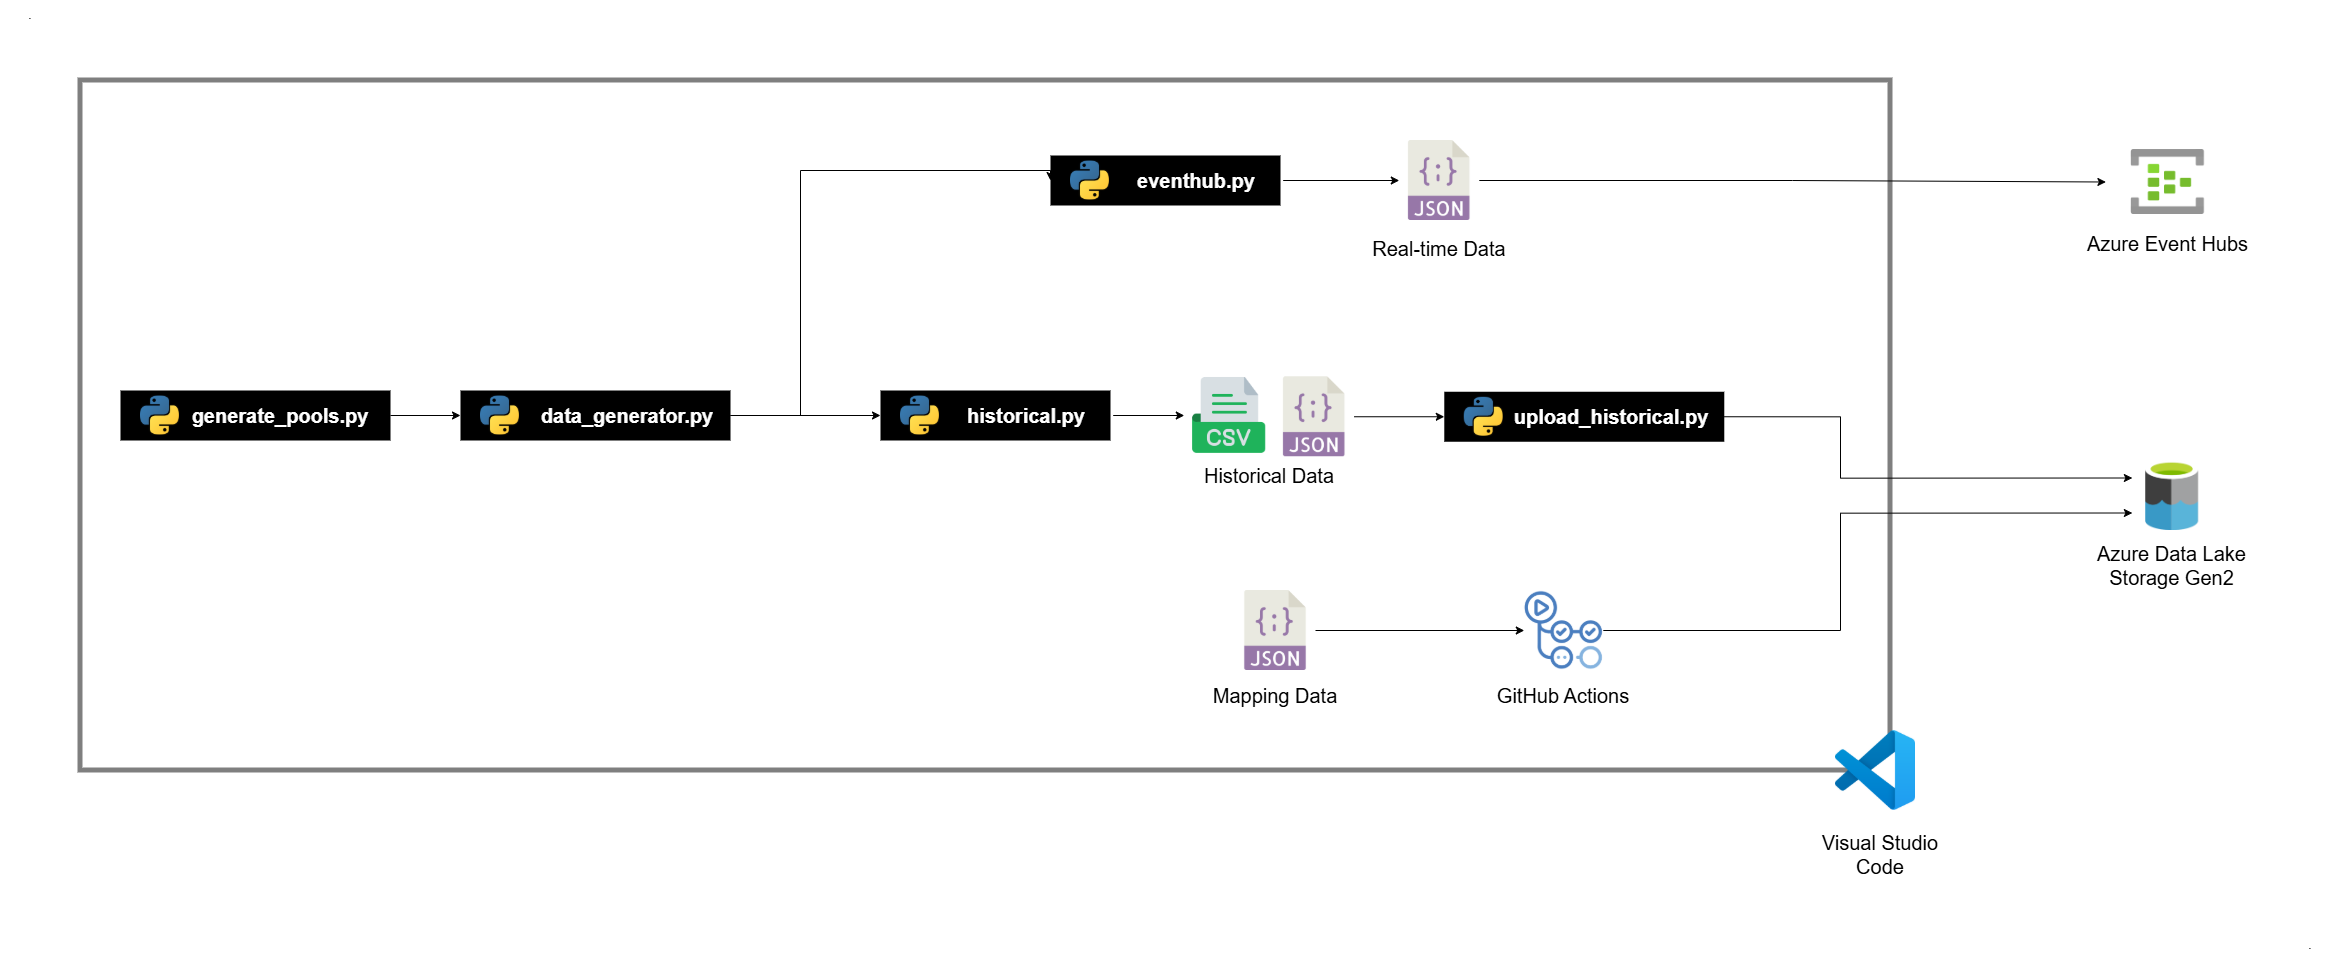
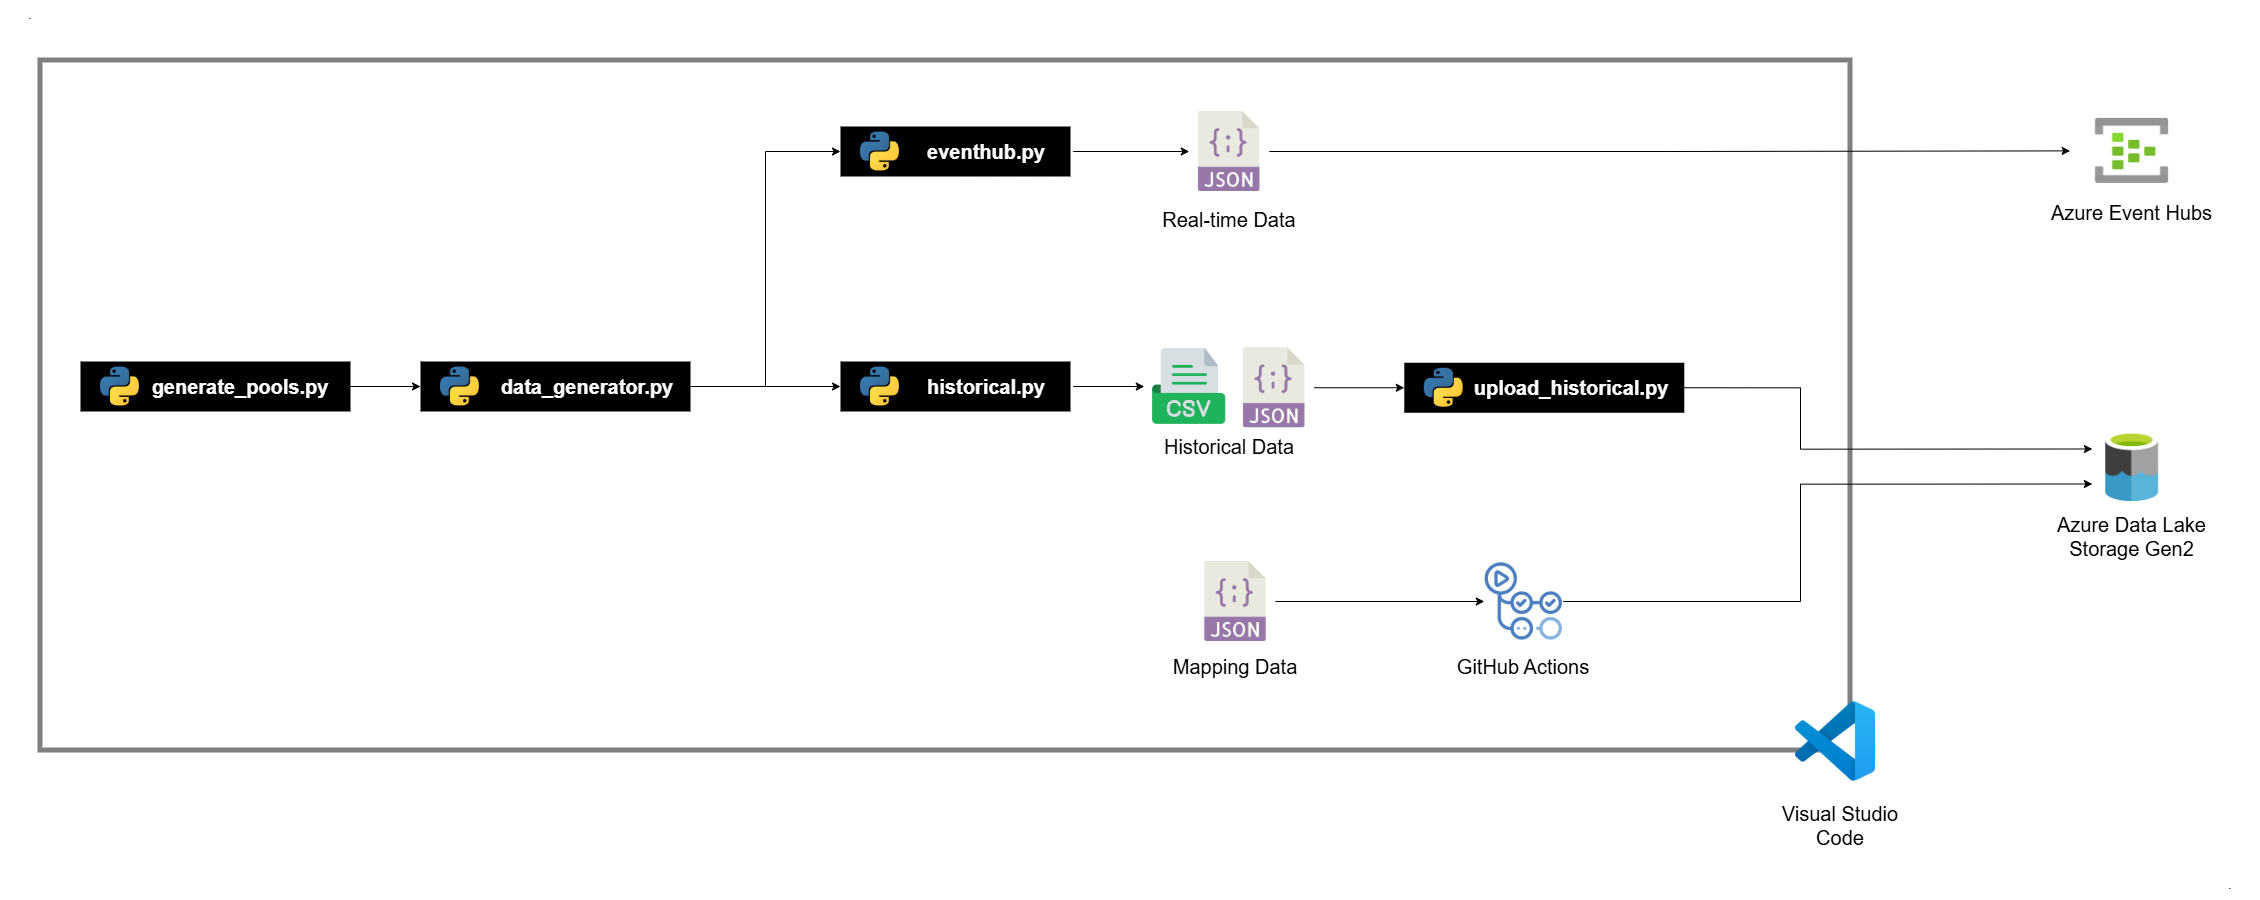
abc

diff --git a/README.md b/README.md
@@ -59,8 +59,18 @@ All three flows converge in **Azure Databricks** where data is processed through
 ---
 
 ## ⚙ Data Generator
+
 ![Data Generator Diagram](docs/images/data_generator.png)
 
+The generator creates realistic ride records using **real Thai geographic coordinates** — not random lat/lon values. It uses a self-hosted **Nominatim** instance (OpenStreetMap) running in Docker to validate that every pickup and dropoff point is on land, inside Thailand, and within the correct province.
+
+Three output modes are supported:
+
+| Mode | Script | Destination |
+|---|---|---|
+| Real-time stream | `eventhub.py` | Azure Event Hubs (JSON) |
+| Historical batch | `historical.py` → `upload_historical.py` | Azure Data Lake Storage Gen2 (CSV / JSON) |
+| Mapping data | GitHub Actions | Azure Data Lake Storage Gen2 (JSON) |
 
 ### How location generation works
 
